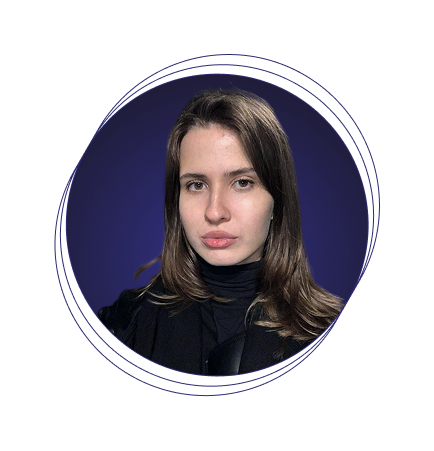
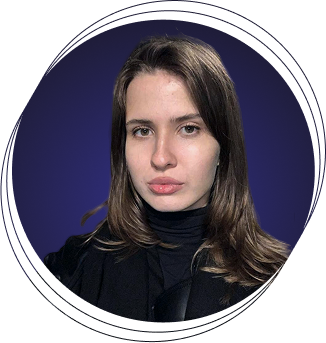
добавляет компонент OurTeam

diff --git a/src/config.js b/src/config.js
@@ -8,6 +8,10 @@ import speakersImage_01 from "./assets/img/speakersImage_01.png";
 import speakersImage_02 from "./assets/img/speakersImage_02.png";
 import speakersImage_03 from "./assets/img/speakersImage_03.png";
 import speakersImage_04 from "./assets/img/speakersImage_04.png";
+import ourTeamImage_01 from "./assets/img/ourTeamImage_01.png";
+import ourTeamImage_02 from "./assets/img/ourTeamImage_02.png";
+import ourTeamImage_03 from "./assets/img/ourTeamImage_03.png";
+import ourTeamImage_04 from "./assets/img/ourTeamImage_04.png";
 
 export const urlPage = {
   home: '/',
@@ -77,5 +81,49 @@ export const speakersData = [
     jobTitle: 'Кандидат геолого-минералогических наук, профессор СПбГУ, лауреат премии Президента Российской Федерации в области науки и инноваций для молодых ученых',
     bio: 'Описание будет позже',
     addClass: 'speakers__circle-image_4'
+  }
+]
+
+export const teamData = [
+  {
+    id: 1,
+    name: 'Алексей',
+    secondName: 'Корсунский',
+    jobTitle: 'Редактор',
+    bio: 'На телевидении оказался еще в школьные годы. Работал на всех стоящих телеканалах Петербурга. Стажировался в крупнейшей американской телекомпании. Получал ТЭФИ за производство лучшего ток-шоу на российском федеральном ТВ. Подготовил больше 1000 часов эфира, с тех пор не ведет им счет. Сегодня руководит службой медиапроизводства РБК в Петербурге.',
+    image: ourTeamImage_01,
+    addClass: 'our-team__team-item_1'
+  },
+  {
+    id: 2,
+    name: 'Роман',
+    secondName: 'Герасимов',
+    jobTitle: 'Автор и ведущий',
+    bio: 'Российский журналист, телеведущий, руководитель информационных проектов РБК Петербург, выпускник СПбГУ. 12 лет проработал на телевидении, два главных проекта получили ТЭФИ, ведущий прямого эфира. В 2018 стал членом Академии российского телевидения. Снимал художественное кино с Рэйфом Файнсом, а в Петербурге работал на проекте «Культурный слой» со Львом Лурье. Автор документального фильма к 75-летию Ленинградского телевидения - «Говорит и показывает Ленинград». Любимый жанр – интервью, среди героев встреч в разных проектах: Владимир Познер, Олег Басилашвили, Эдуард Артемьев, Михаил Шемякин, Вячеслав Бутусов, Сергей Безруков, Вячеслав Полунина, Ирина Купченко, Татьяна Черниговская и др. Есть ежегодная традиция, связанная с 31 числом, но не 31 декабря, а 31 августа, любит возвращаться в родной Университет, открывая очередной учебный год в Alma Mater.',
+    image: ourTeamImage_02,
+    addClass: 'our-team__team-item_2'
+  },
+  {
+    id: 3,
+    name: 'Александр',
+    secondName: 'Медведев',
+    jobTitle: 'Режиссер-постановщик',
+    bio: 'Член союза работников культуры России. Член гильдии неигрового кино и телевидения. Доцент кафедры продюсирования кино и телевизионных программ СПб ГИ КиТ\n' +
+        'Генеральный директор продакшн-компании «One Media»\n' +
+        'Продюсер, режиссер и оператор-постановщик телевизионных, игровых и кинодокументальных проектов.\n' +
+        'Среди постоянных заказчиков: Академия Минпросвещения России, МФЦ, Правительство Ленинградской области, Правительство Санкт-Петербурга, Газпром-Нефть, Лукоил, КАЗАЗ, Яхт-клуб Санкт-Петербурга, ТехноАвиа, Pilous, НИИ «Вектор» и др.\n' +
+        'С 2019-2022 годы преподавал в СПб ГИ КиТ на кафедре продюсирования в должности доцента.\n' +
+        'Любит снимать яхты, паруса и чувствовать морской ветер, но сейчас с удовольствием нырнул в глубины науки в СПбГУ. ',
+    image: ourTeamImage_03,
+    addClass: 'our-team__team-item_3'
+  },
+  {
+    id: 4,
+    name: 'Даша',
+    secondName: 'Волкова',
+    jobTitle: 'Координатор',
+    bio: 'Корреспондент РБК Петербург. Вхожу в топ незаслуженных журналистов России, обладаю негласной наградой «самый затяжной кофе-брейк». Наиболее посещаемые места — арбитраж и парламент, а нынче с удовольствием обживаю лучший готический интерьер Петербурга.',
+    image: ourTeamImage_04,
+    addClass: 'our-team__team-item_4'
   }
 ]

diff --git a/src/components/content/OurTeam/OurTeam.jsx b/src/components/content/OurTeam/OurTeam.jsx
@@ -1,10 +1,35 @@
 import  "./OurTeam.scss";
+import Container from "../../layout/Container/Container.jsx";
+import { teamData } from "../../../config.js";
 
 const OurTeam = () => {
 
     return (
         <section id="our-team" className="our-team">
-
+            <Container size="large-m">
+                <div className="our-team__container">
+                    <div className="our-team__title">
+                        <h1>Наша <i style={{ fontWeight: 100, color: 'white' }}>команда</i></h1>
+                    </div>
+                    <div className="our-team__team">
+                        {teamData.map((item) => {
+                          return (
+                              <div key={item.id} className="our-team__team-item">
+                                <div className="our-team__team-img">
+                                    <img src={item.image} alt="" />
+                                </div>
+                                <div className="our-team__team-info">
+                                    <div className="our-team__team-info-name">
+                                        <h5><i style={{ fontWeight: 100 }}>{item.name} </i>{item.secondName}</h5>
+                                        <span>{item.jobTitle}</span>
+                                    </div>
+                                    <p>{item.bio}</p>
+                                </div>
+                              </div>
+                          )})}
+                    </div>
+                </div>
+            </Container>
 
         </section>
     )

diff --git a/src/components/content/OurTeam/OurTeam.scss b/src/components/content/OurTeam/OurTeam.scss
@@ -1,3 +1,82 @@
 @use '../../../assets/styles/vars.scss' as *;
 @use '../../../assets/styles/mixins.scss' as *;
 
+.our-team {
+  margin-bottom: 100px;
+}
+
+.our-team__container {
+  display: flex;
+  flex-direction: column;
+  gap: 30px;
+
+  h1 {
+    @include regular;
+    color: $blue;
+    @include base-70;
+  }
+}
+
+.our-team__title {
+  display: flex;
+  width: 100%;
+  justify-content: flex-end;
+}
+
+.our-team__team {
+  display: grid;
+  grid-template-columns: repeat(4, 1fr);
+  column-gap: 16px;
+}
+
+.our-team__team-item {
+  display: grid;
+  grid-template-rows: 400px 250px;
+  row-gap: 50px;
+}
+
+.our-team__team-img {
+  display: flex;
+  align-items: end;
+  position: relative;
+
+  img {
+    object-fit: contain;
+    width: 100%;
+  }
+}
+
+.our-team__team-info {
+  display: flex;
+  flex-direction: column;
+  justify-content: space-between;
+  gap: 20px;
+  padding: 20px;
+  height: 100%;
+
+  p {
+    @include light;
+    opacity: 70%;
+    @include base-16;
+    line-height: 25px;
+  }
+}
+
+.our-team__team-info-name {
+  display: flex;
+  flex-direction: column;
+  gap: 6px;
+
+  h5 {
+    @include regular;
+    line-height: 28px;
+    @include base-25;
+  }
+
+  span {
+    @include light;
+    @include base-16;
+    color: $blue;
+    opacity: 70%;
+  }
+}

diff --git a/src/components/layout/Container/Container.scss b/src/components/layout/Container/Container.scss
@@ -43,6 +43,26 @@
   }
 }
 
+.container_size_large-m {
+  width: 1416px;
+  max-width: 100%;
+  margin: 0 auto;
+  // padding: 0 50px;
+  // box-sizing: border-box;
+
+  @media (max-width: $laptop) {
+    padding: 0 40px;
+  }
+
+  @media (max-width: $mobile) {
+    width: 100%;
+  }
+
+  @media (max-width: $mobile-s) {
+    padding: 0 15px;
+  }
+}
+
 .container__add-border {
     border-right: 1px solid var(--primary-border-color);
     border-left: 1px solid var(--primary-border-color);

diff --git a/src/components/layout/Container/Container.jsx b/src/components/layout/Container/Container.jsx
@@ -5,7 +5,7 @@ const Container = (props) => {
   const {
     children,
     addClass = "",
-    size = "default", // default, large
+    size = "default", // default, large, large-m
   } = props;
 
   const containerClass = classNames({

diff --git a/src/components/layout/Header/Header.scss b/src/components/layout/Header/Header.scss
@@ -60,6 +60,7 @@
   a {
     @include base-16;
     color: $white;
+    cursor: pointer;
   }
 
   @media (max-width: $tablet-xs) {
